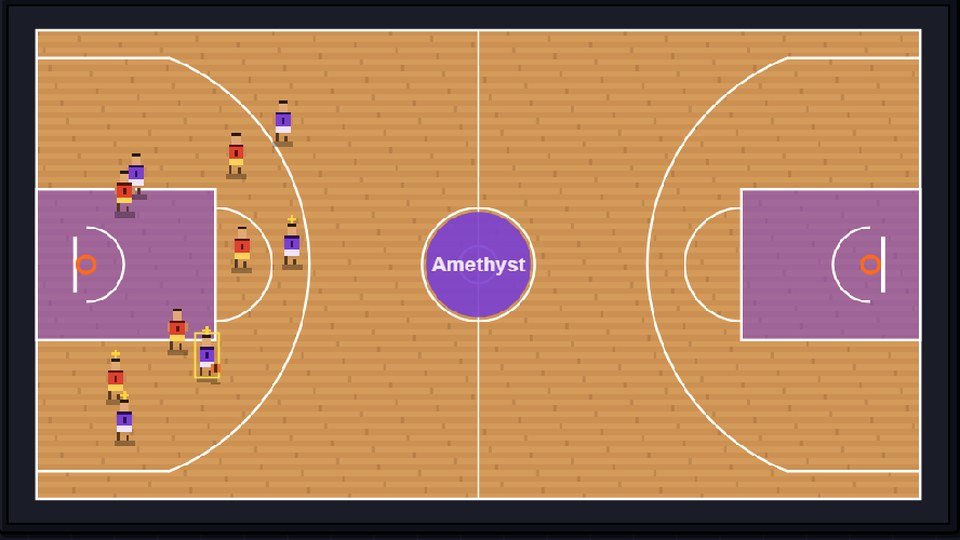
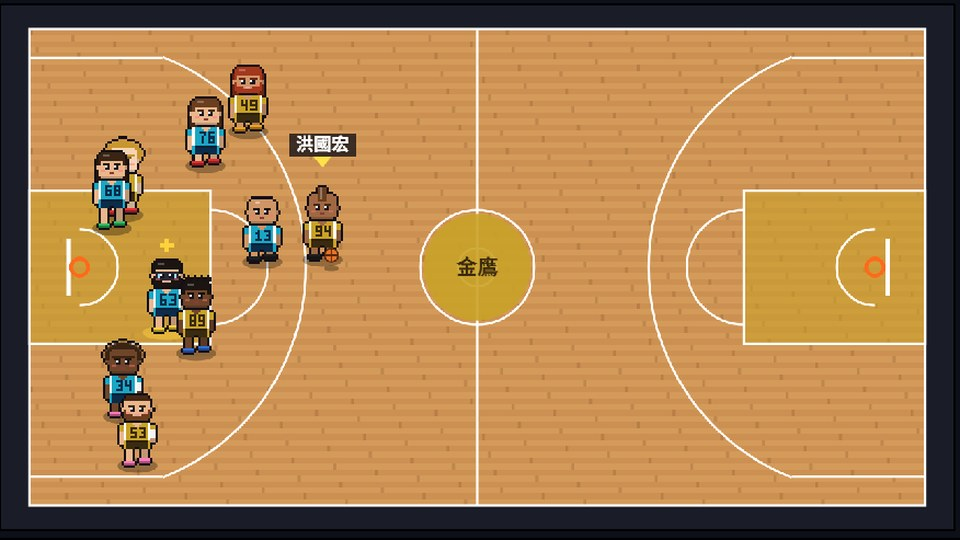
Pixel Hoops card: new thumbnail with the big chibi players

diff --git a/games.js b/games.js
@@ -88,7 +88,7 @@ window.GAMES = [
   {
     id: 'hoops',
     url: '/pixel-hoops/',
-    thumb: 'thumbs/hoops.jpg',
+    thumb: 'thumbs/hoops.jpg?v=2',
     color: '#e8742a',
     genres: ['sports', 'strategy'],
     devices: ['keyboard', 'touch'],

diff --git a/index.html b/index.html
@@ -77,7 +77,7 @@
     </form>
   </div>
 
-  <script src="games.js?v=4"></script>
+  <script src="games.js?v=5"></script>
   <script src="app.js?v=4"></script>
 </body>
 </html>
